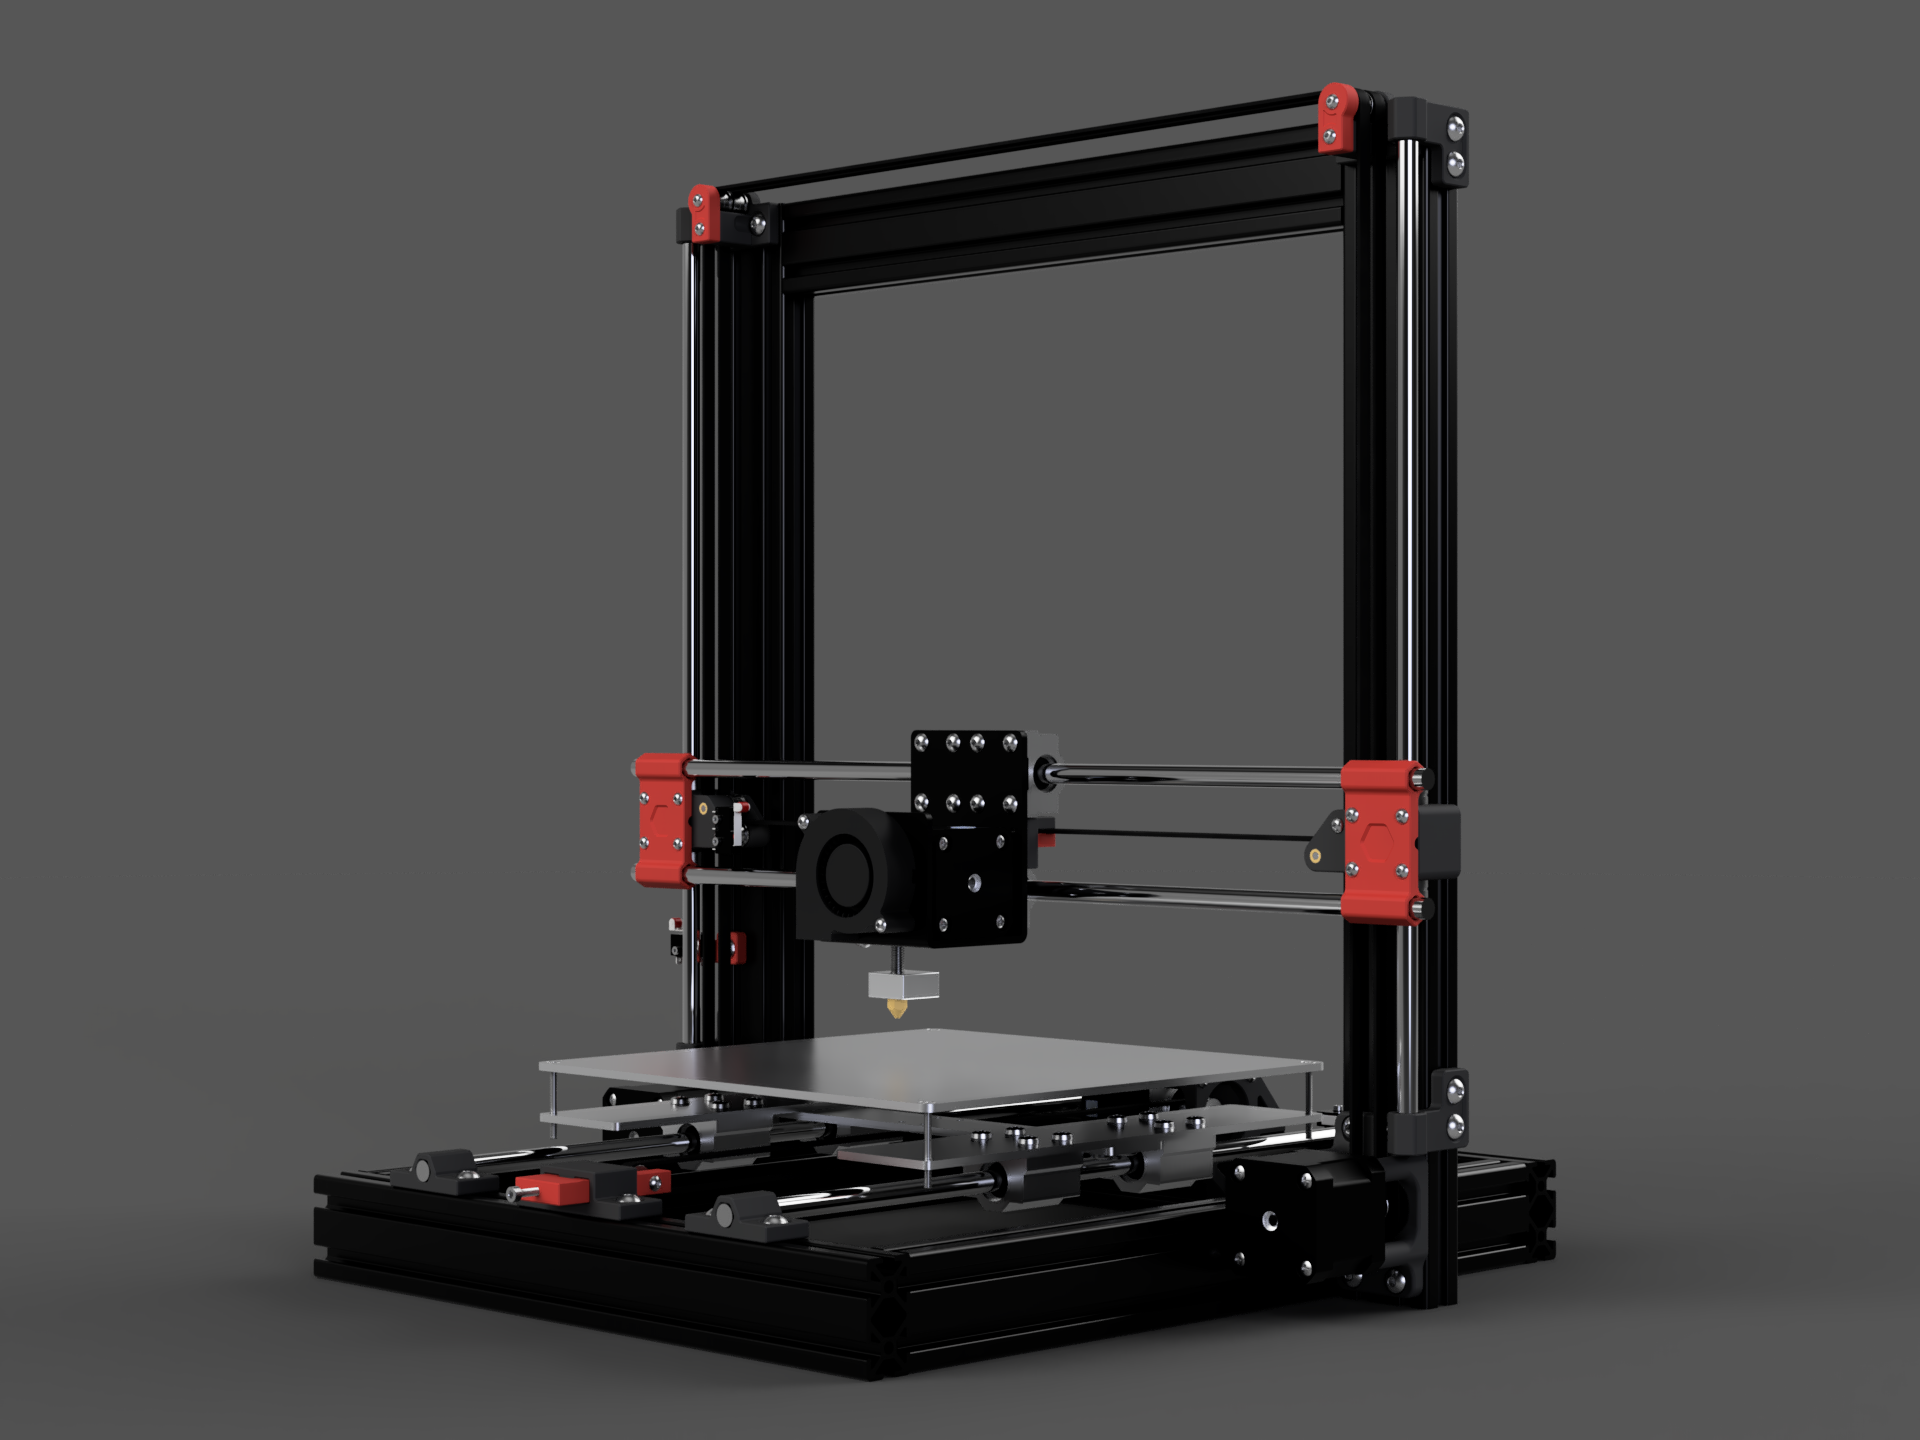
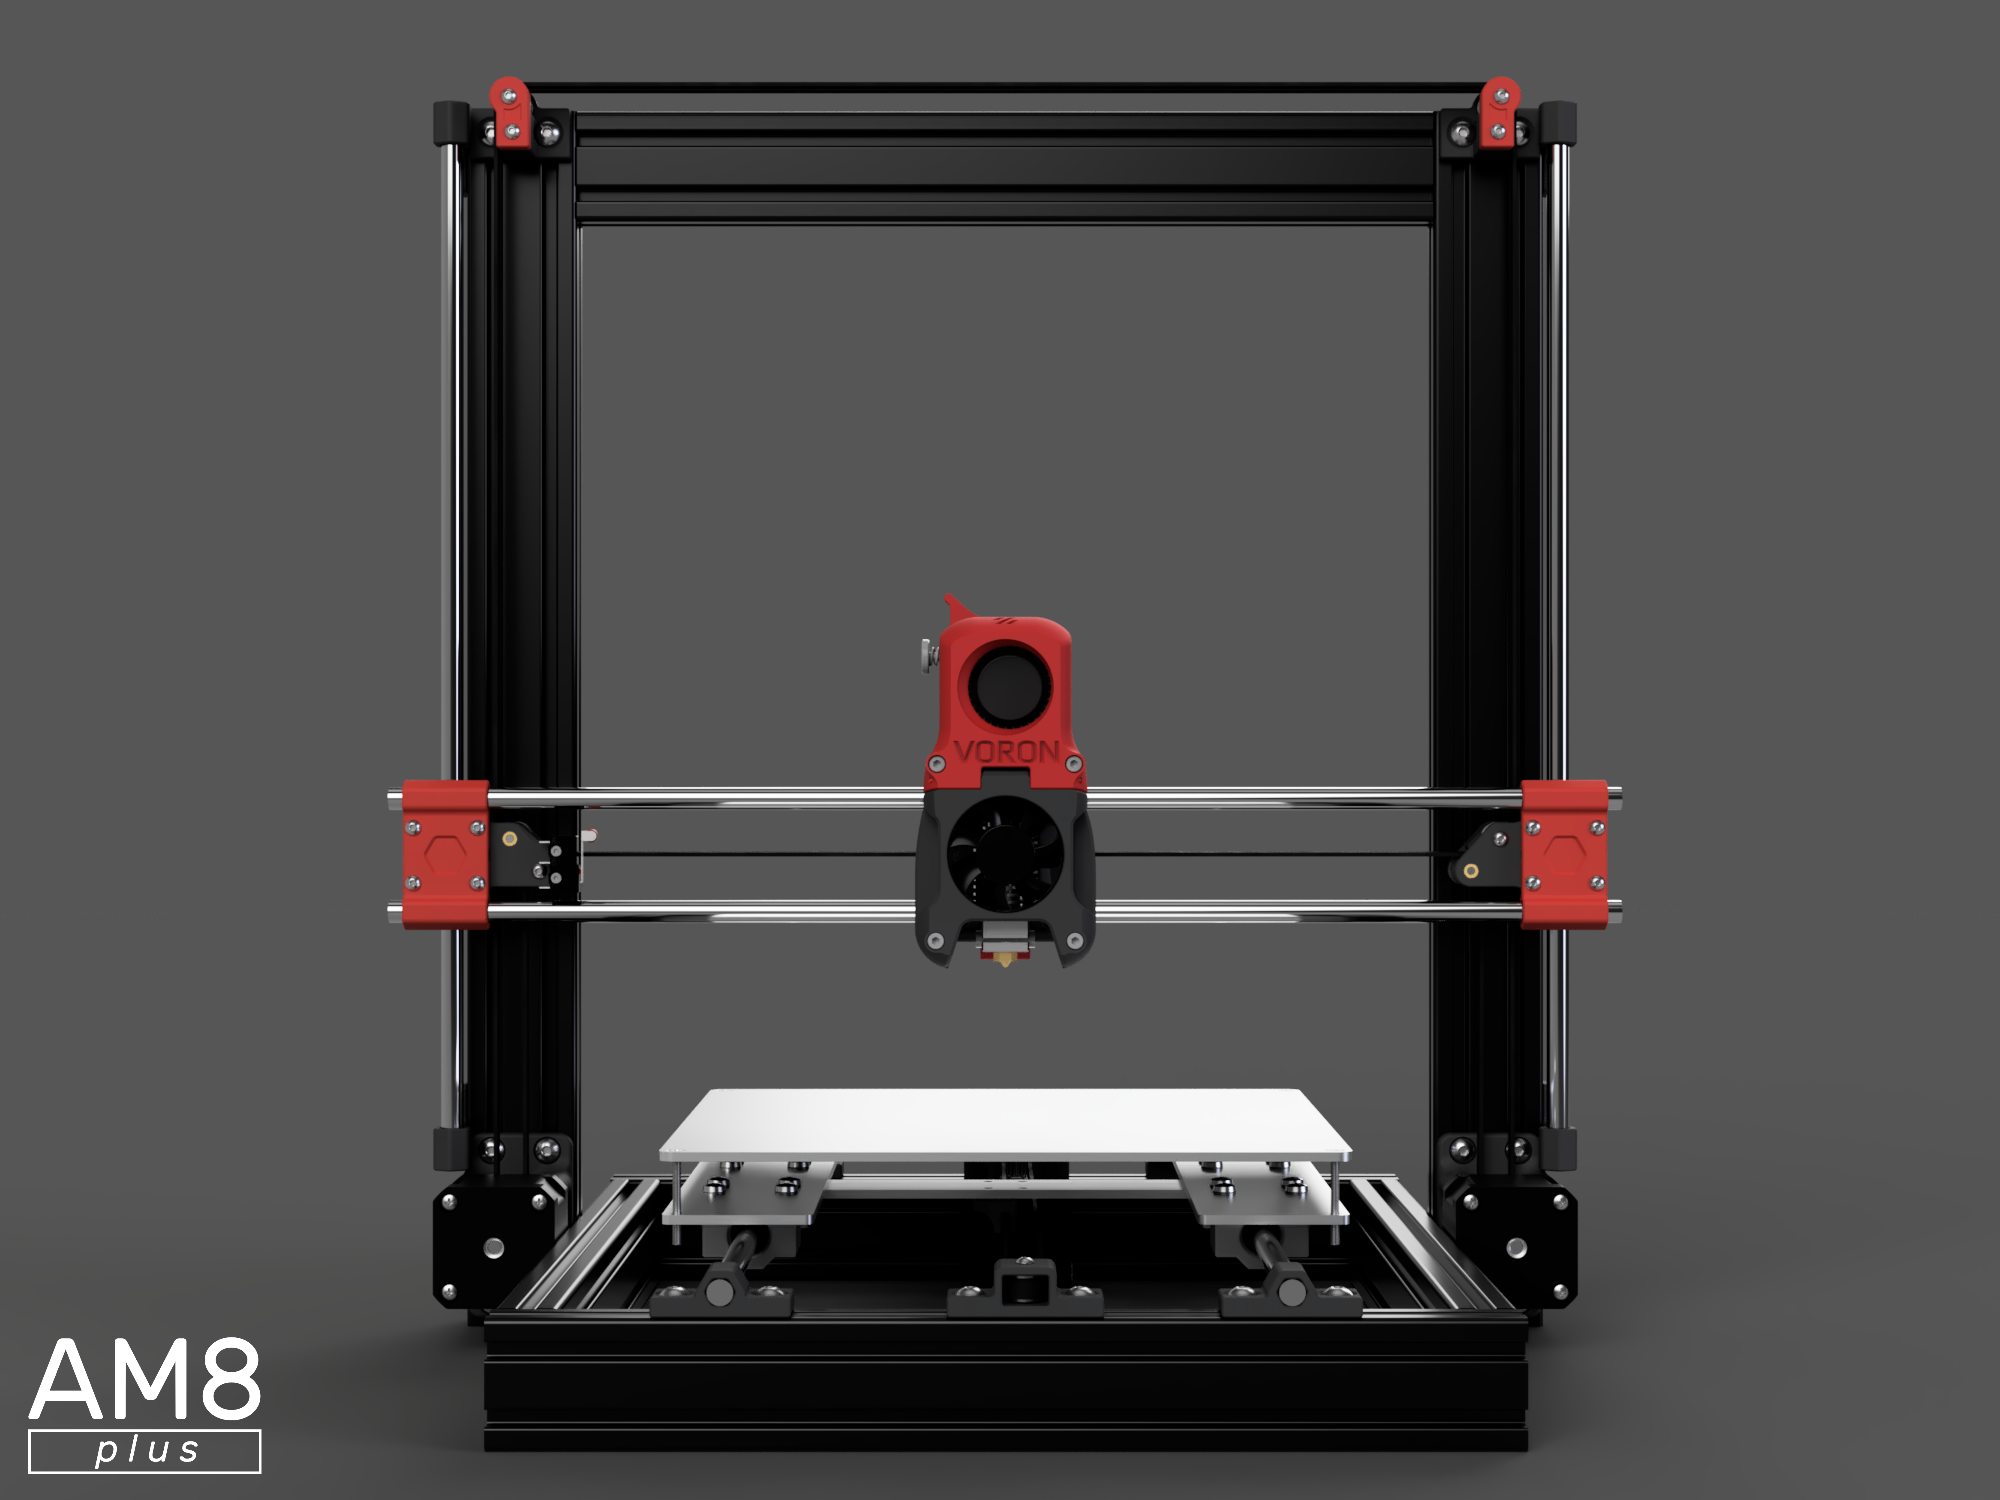
Updated renders

Changed region(s): [[0.1562, 0.0312, 0.8125, 1.0], [0.0, 0.875, 0.1562, 1.0]]

diff --git a/README.md b/README.md
@@ -1,20 +1,20 @@
 # *UNDER DEVELOPMENT !!!*
 
 # AM8 plus "Switchwire"
-This is a Core XZ upgrade for the popular AM8 frame inspired by the Voron Switchwire.
+This is a Core XZ upgrade for the popular AM8 frame inspired by the Voron Switchwire, which also makes the AM8 compatible with VORON Afterburner.
 
 ![Render 01](Images/Render%2001.png)
+![Render 01](Images/Render%2002.png)
 
 In case you don't know about the Voron Project, check it out at https://www.vorondesign.com/. They design outstanding open-source 3D printers, and if you're looking for a *real* upgrade, I'd suggest you build a Voron instead. It probably won't get any better.
 But if you enjoy tinkering on your cheap 3D printer just like me, this mod could be something for you.
 
-## Features
-### Core XZ using Anet A8's stock linear rods!
-![Render 02](Images/Render%2002.png)
-### Easily and precisely adjustable Z endstop!
-![Render 03](Images/Render%2003.png)
-### Compatible with VORON Afterburner!
-![Render 04](Images/Render%2004.png)
+## Renders
+![Render 02](Images/Render%2003.png)
+![Render 03](Images/Render%2004.png)
+![Render 04](Images/Render%2005.png)
+![Render 04](Images/Render%2006.png)
+![Render 04](Images/Render%2007.png)
 
 ## Some Facts
 * Build volume is 220x220x220mm.
